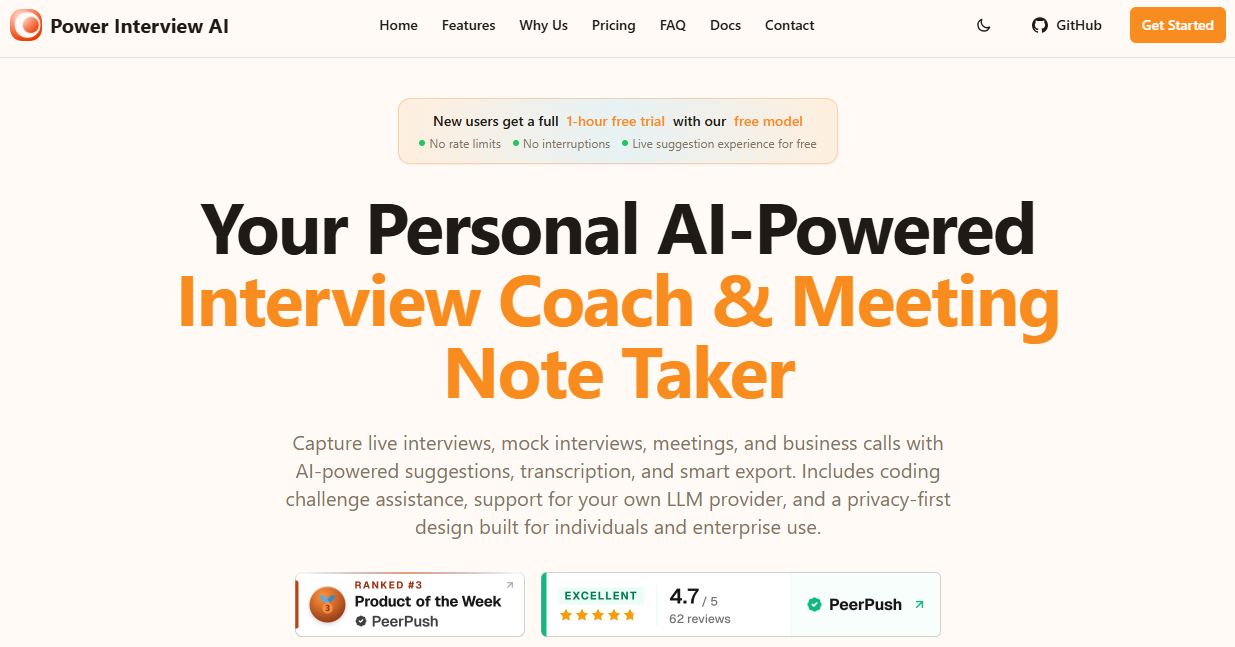
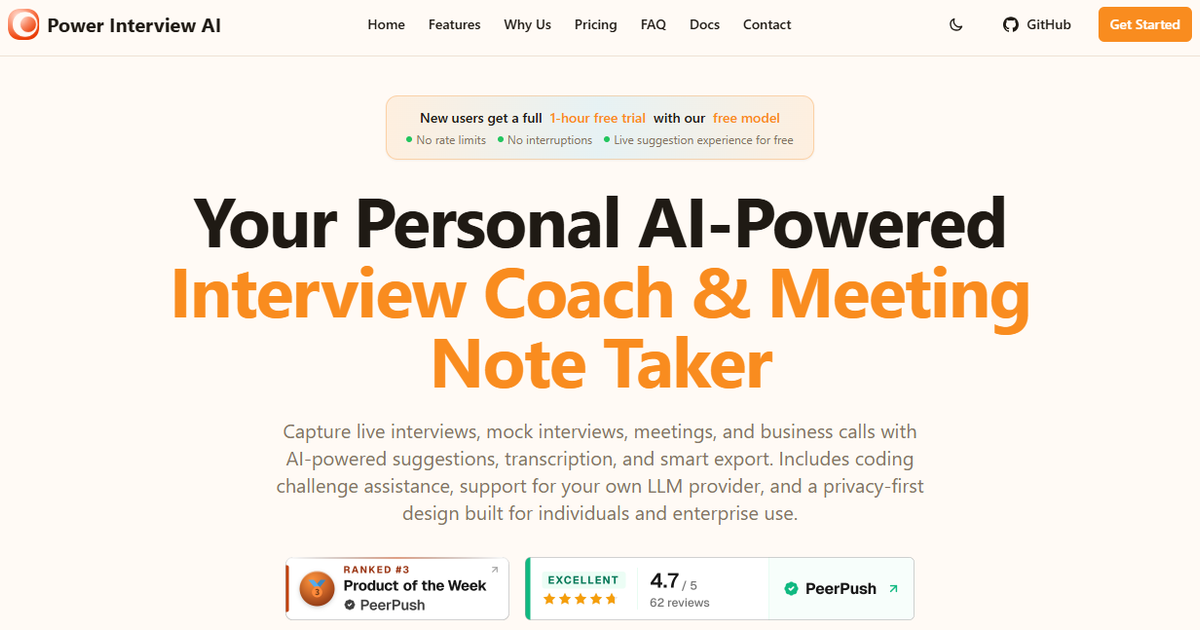
fix(seo): re-export the Open Graph card at 1200x630
The card was 1235x647 while the Open Graph and Twitter
summary_large_image convention is 1200x630, so every scraper rescaled it.
Resized (a 0.2% aspect change - the two ratios are 1.9088 and 1.9048) and
the width/height pairs in metadata.ts and layout.tsx now match the file.

The 1235x647 original is in git history if the card is ever re-drawn from
source. One thing the artwork still gets wrong, noted in the marketing
README: its mocked-up nav bar doesn't match the site's current header.

diff --git a/src/lib/metadata.ts b/src/lib/metadata.ts
@@ -26,8 +26,8 @@ export function buildMetadata({ title, description, path }: PageMetadataInput): 
       images: [
         {
           url: '/open-graph.png',
-          width: 1235,
-          height: 647,
+          width: 1200,
+          height: 630,
           alt: SITE_NAME,
         },
       ],

diff --git a/src/app/layout.tsx b/src/app/layout.tsx
@@ -110,8 +110,8 @@ export const metadata: Metadata = {
     images: [
       {
         url: '/open-graph.png',
-        width: 1235,
-        height: 647,
+        width: 1200,
+        height: 630,
         alt: 'Power Interview AI - AI interview coach and meeting note taker',
       },
     ],
